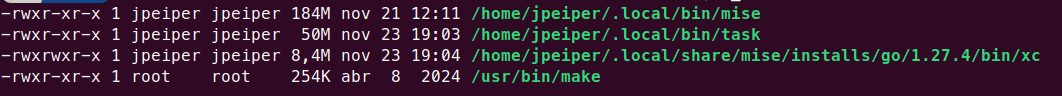
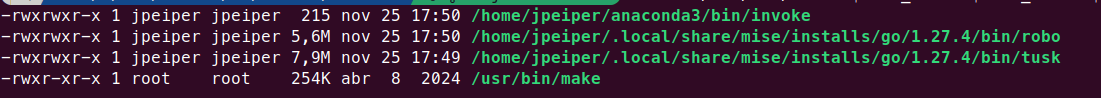
refs #21 nuevas mediciones para herramientas más originales

diff --git a/doc/decision_gestores.md b/doc/decision_gestores.md
@@ -2,10 +2,10 @@
 
 En Go, el gestor de dependencias estándar y nativo es `go mod`. Al ser el estándar oficial del lenguaje desde la versión 1.16, además no requiere instalación externa.
 
-Para elegir el gestor de tareas del proyecto he evaluamado cuatro alternativas: **Make** (estándar POSIX), **Task** (escrito en Go), **Xc** (herramienta emergente escrita en Go basada en Markdown) y **Mise** (herramienta escrita en Rust). Los criterios objetivos medidos son:
+Para elegir el gestor de tareas del proyecto he evaluamado cuatro alternativas: **Make** (estándar POSIX), **Tusk** (YAML escrito en Go), **Robo** (YAML escrito en Go) e **Invoke** (gestor de tareas en Python). Los criterios objetivos medidos son:
 
 - Tiempo de instalación usando el instalador binario oficial más rápido disponible.
-- Tiempo de arranque y gestión (*overhead*) al lanzar una tarea mínima idéntica con `echo ok`, aislando el rendimiento de la herramienta del tiempo de compilación de Go.
+- Tiempo de arranque y gestión (*overhead*) al lanzar la misma tarea `check` ejecutando `go build ./...` en la raíz del proyecto.
 - Tamaño del binario instalado en disco.
 - Tamaño del fichero de configuración mínimo para definir la misma tarea.
 
@@ -13,52 +13,22 @@ Para elegir el gestor de tareas del proyecto he evaluamado cuatro alternativas: 
 
 En primer lugar, he medido el tiempo que tarda cada herramienta en instalarse en el sistema mediante `time`:
 
-![Medición de instalación de mise](../media/tInstalacion_mise.png)
-![Medición de instalación de task](../media/tInstalacion_task.png)
-![Medición de instalación de xc](../media/tInstalacion_xc.png)
+![Medición de instalación](../media/tInstalacion.png)
 
 Make es el único que no tiene captura ya que viene preinstalado en Linux.
 
-A continuación, he lanzado `time <herramienta> check` con una tarea mínima que imprime un simple `echo` para medir exclusivamente el tiempo de sobrecarga (*overhead*) de cada gestor, estas eran las configuraciones de cada archivo para dicha tarea junto con lo que ocupaban:
-
-- `Makefile` (17 bytes):
-  ```makefile
-  check:
-  	@echo ok
-  ```
-- `Taskfile.yml` (43 bytes):
-  ```yaml
-  version: '3'
-  tasks:
-    check:
-      - echo ok
-  ```
-- `README.md` para `xc` (37 bytes):
-  ```markdown
-  # Tasks
-
-  ## check
-
-  ```sh
-  echo ok
-  ```
-- `mise.toml` (30 bytes):
-  ```toml
-  [tasks.check]
-  run = "echo ok"
-  ```
+A continuación, he lanzado `time <herramienta> check` ejecutando `go build ./...`:
 
 ![Tamaño de las herramientas](../media/tam_herramientas.png)
+![Tamaño invoke](../media/tam_invoke.png)
 
-![Overhead de ejecución](../media/medicion_ejecucion.png)
+![Tiempo de ejecución](../media/tEjecucion.png)
 
-*Tabla para comparar herramientas según los requisitos:*
+Resultados de las pruebas:
 
-| Requisito Objetivo | Make | Task | Xc | Mise |
-| :--- | :--- | :--- | :--- | :--- |
-| **Tiempo de instalación** | 0s (Preinstalado) | 14,730s | 0,554s | 15,746s |
-| **Tiempo de ejecución** | 0.004s | 0.049s | 0.005s | 0.018s |
-| **Tamaño herramienta** | 254 KB | 50 MB | 8.4 MB | 184 MB |
-| **Tamaño configuración** | 17 B | 43 B | 37 B | 30 B |
+* **Make:** viene preinstalado en el sistema (0s de instalación), su binario ocupa `254 KB`, el Makefile de `check` ocupa `22 bytes` y ejecuta la comprobación en 0.019s.
+* **Tusk:** tarda 5.582s en instalarse con `go install`, ocupa 7.9M, su fichero de configuración ocupa `44 bytes` y ejecuta `check` en 0.019s.
+* **Robo:** tarda 4.226s en instalarse con `go install`, ocupa 5.6M, su fichero de configuración ocupa `32 bytes` y ejecuta `check` en 0.016s.
+* **Invoke:** tarda 1.740s en instalarse mediante `pip`, ocupa 1.5M, su fichero ocupa `76 bytes` y ejecuta `check` en 0.127.
 
-*Decisión:* He elegido usar **Make** porque es la que mejor resultado obtiene en todo lo que ha sido evaluado.
+*Decisión:* 
